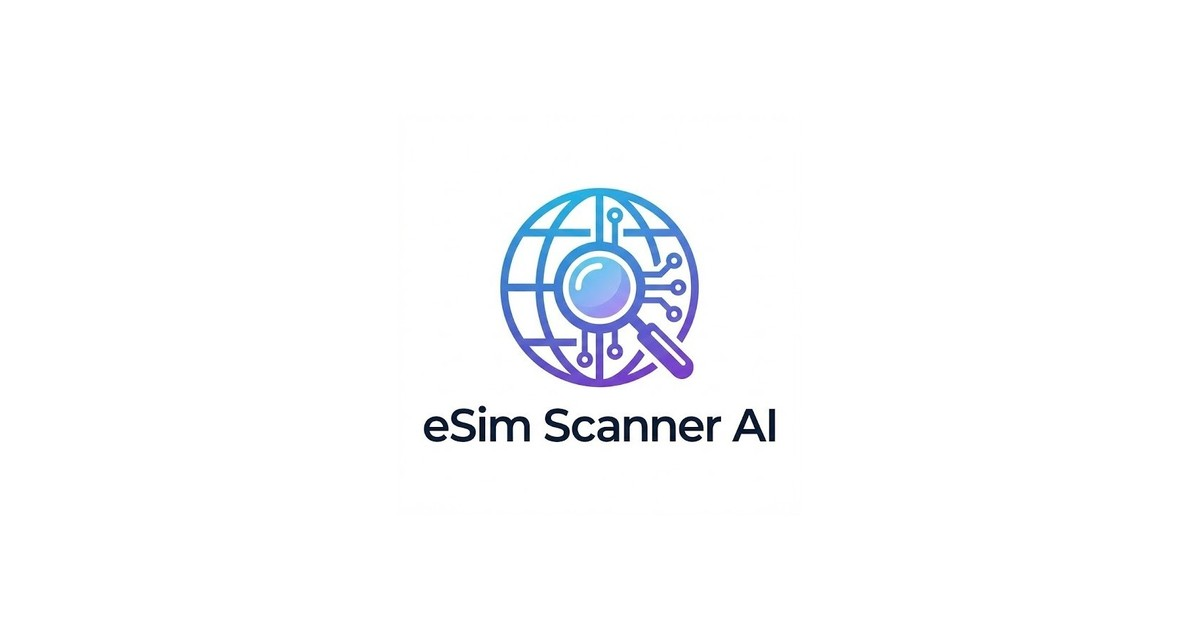
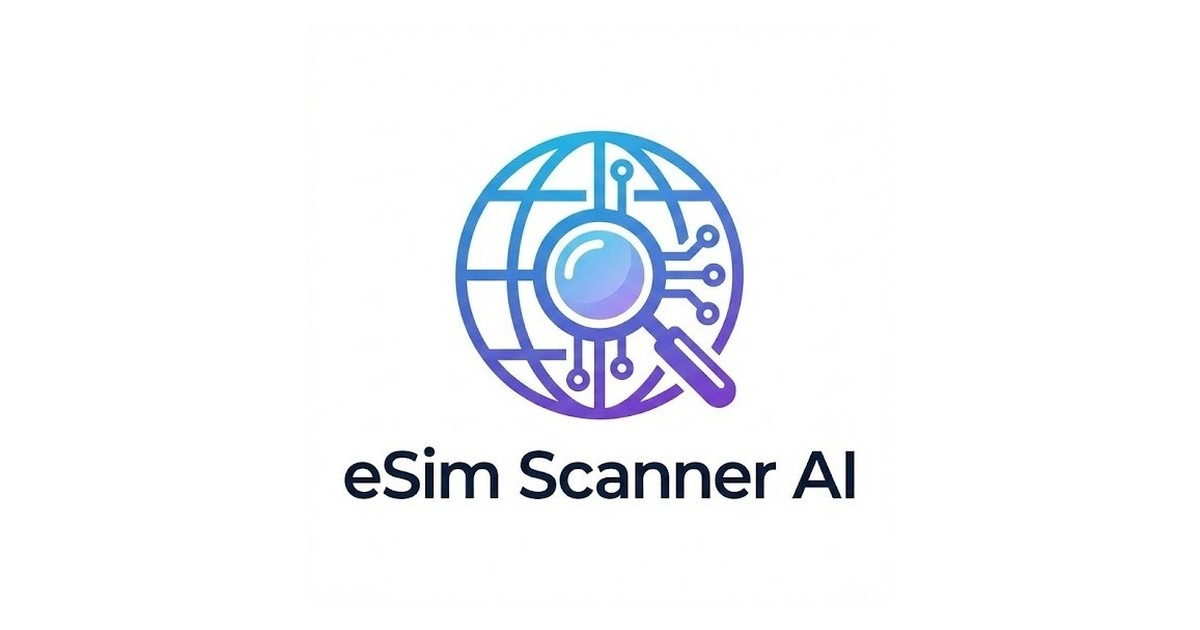
Mobile mode - fix image slogan (bigger)

Changed region(s): [[0.2775, 0.181, 0.74, 0.8143]]

diff --git a/src/create_social_card.py b/src/create_social_card.py
@@ -26,7 +26,8 @@ def create_social_card():
     # That fits nicely in 630 height with ~35px padding top/bottom.
     # But let's check if we want to resize it slightly smaller to have breathing room
     
-    target_logo_h = 400
+    # Target logo height (Increased for visibility)
+    target_logo_h = 580
     ratio = target_logo_h / logo.height
     new_w = int(logo.width * ratio)
     new_h = int(logo.height * ratio)
